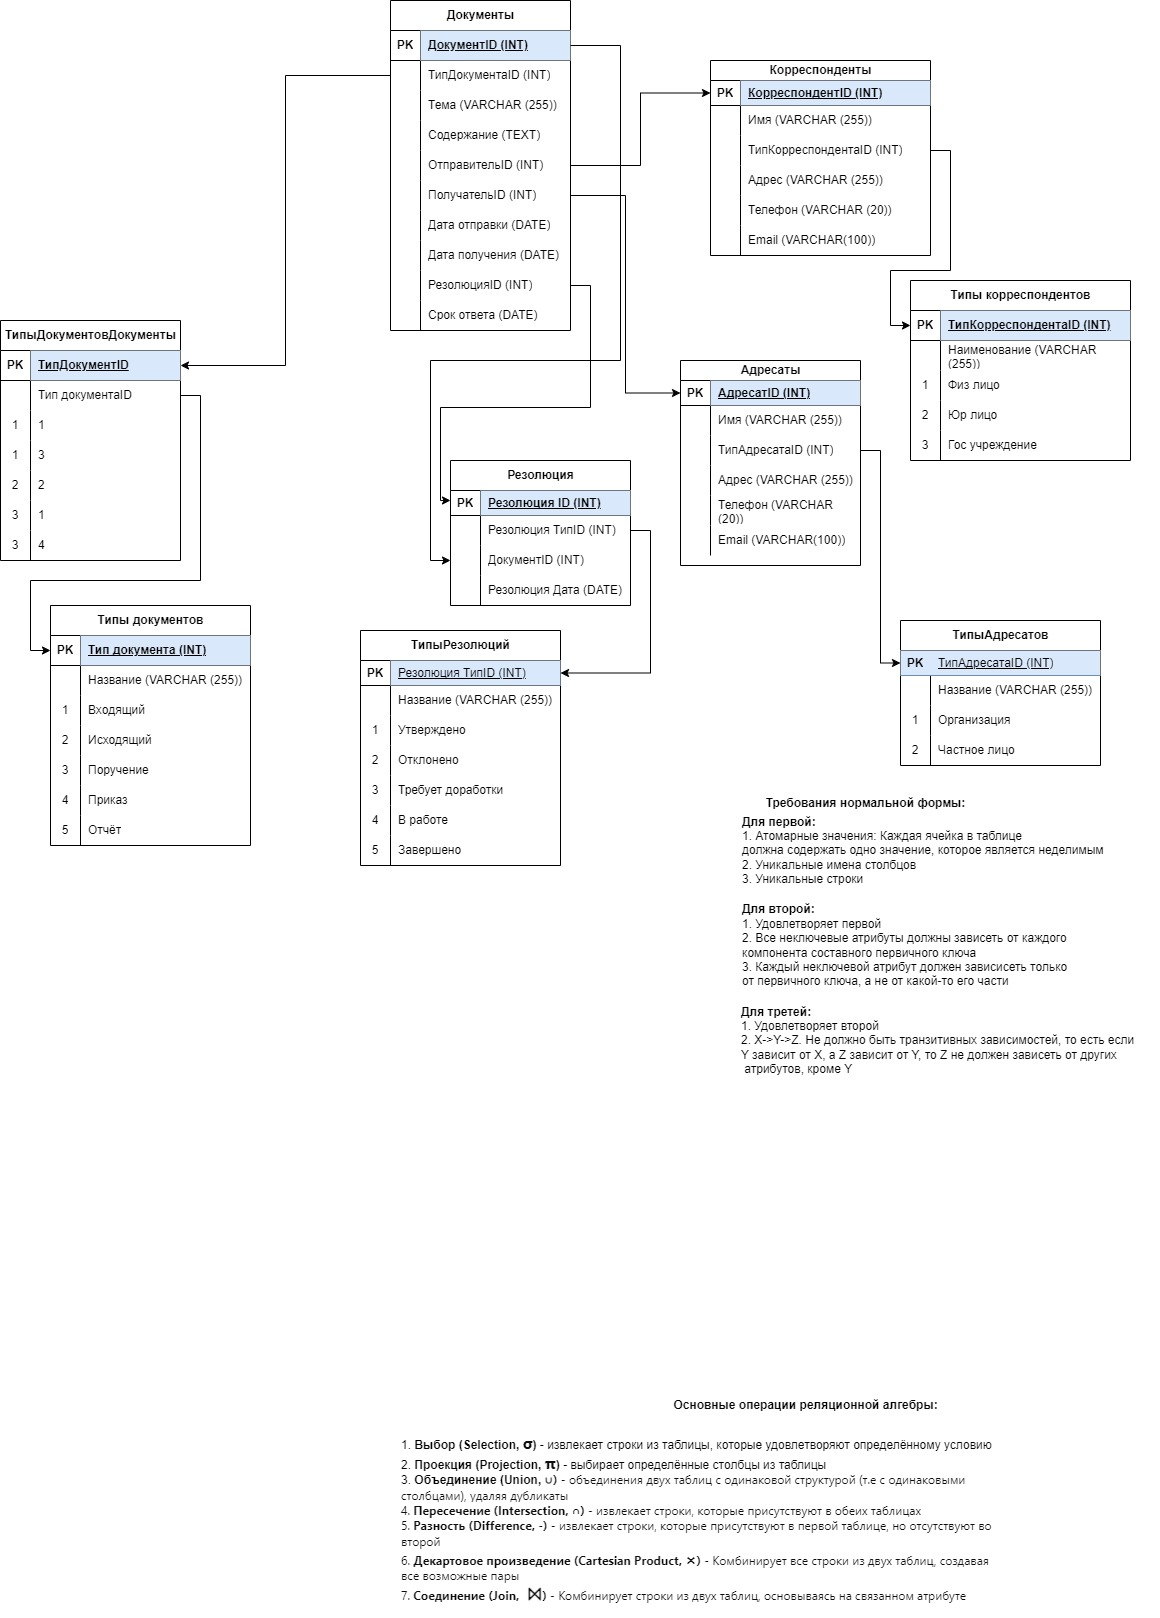
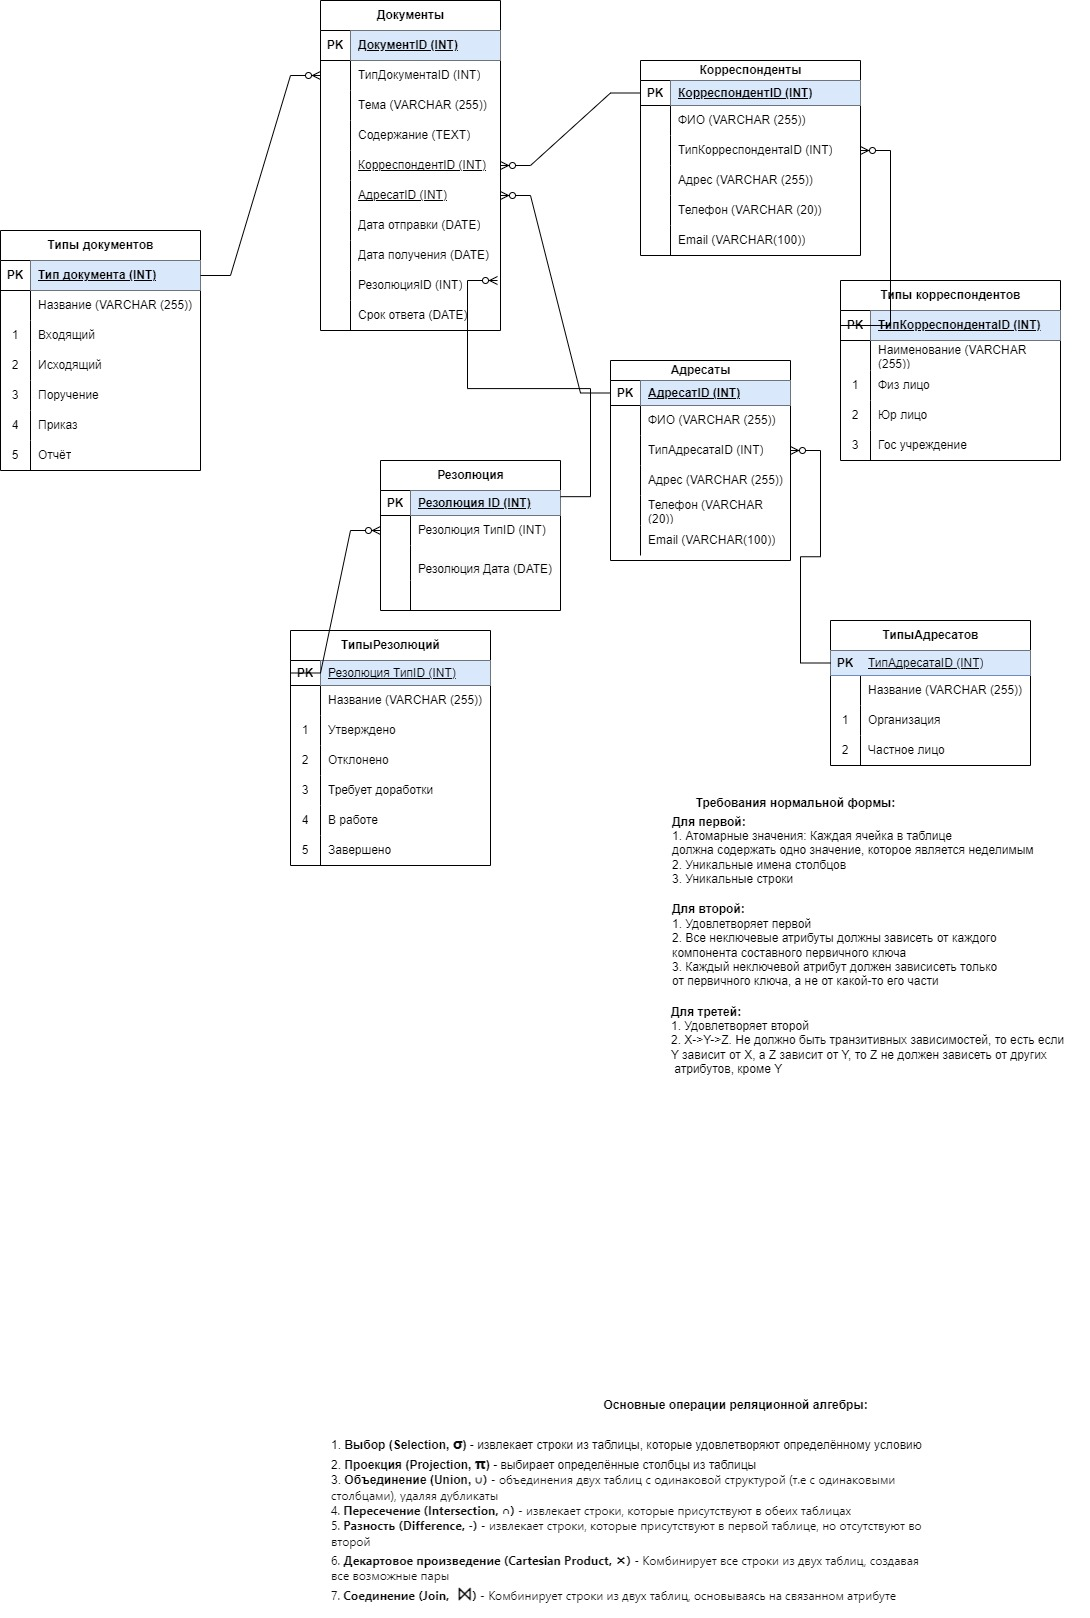
Added description Database SQL

diff --git a/README.md b/README.md
@@ -41,3 +41,9 @@ ___
 ### Python
 - Using libraries aichi and tai chi_gslr for creating [shaders](https://github.com/Syorito7/Tasks/tree/main/HSE/Course_3/Computer%20Practicum%203/TEST_4)
 ![Demonstration](https://github.com/Syorito7/Tasks/blob/main/HSE/Course_3/Computer%20Practicum%203/shaders.gif)
+### Database - SQL
+- Creating E-R diagrams, tables and writing base requests:
+- Commands:
+- SELECT, INSERT INTO, FROM, WHERE, INNER JOIN/JOIN, CONCAT
+![E-R diagrams](https://github.com/Syorito7/Tasks/blob/main/HSE/Course_3/Database/Laba_1/ER-%D0%B4%D0%B8%D0%B0%D0%B3%D1%80%D0%B0%D0%BC%D0%BC%D0%B0%2C%20%D0%B2%D0%B0%D1%80%D0%B8%D0%B0%D0%BD%D1%82%2012-E-R%20%D0%B4%D0%B8%D0%B0%D0%B3%D1%80%D0%B0%D0%BC%D0%BC%D0%B0%20-%20%D0%9A%D0%B0%D0%BD%D1%86%D0%B5%D0%BB%D1%8F%D1%80%D0%B8%D1%8F.jpg)
+
